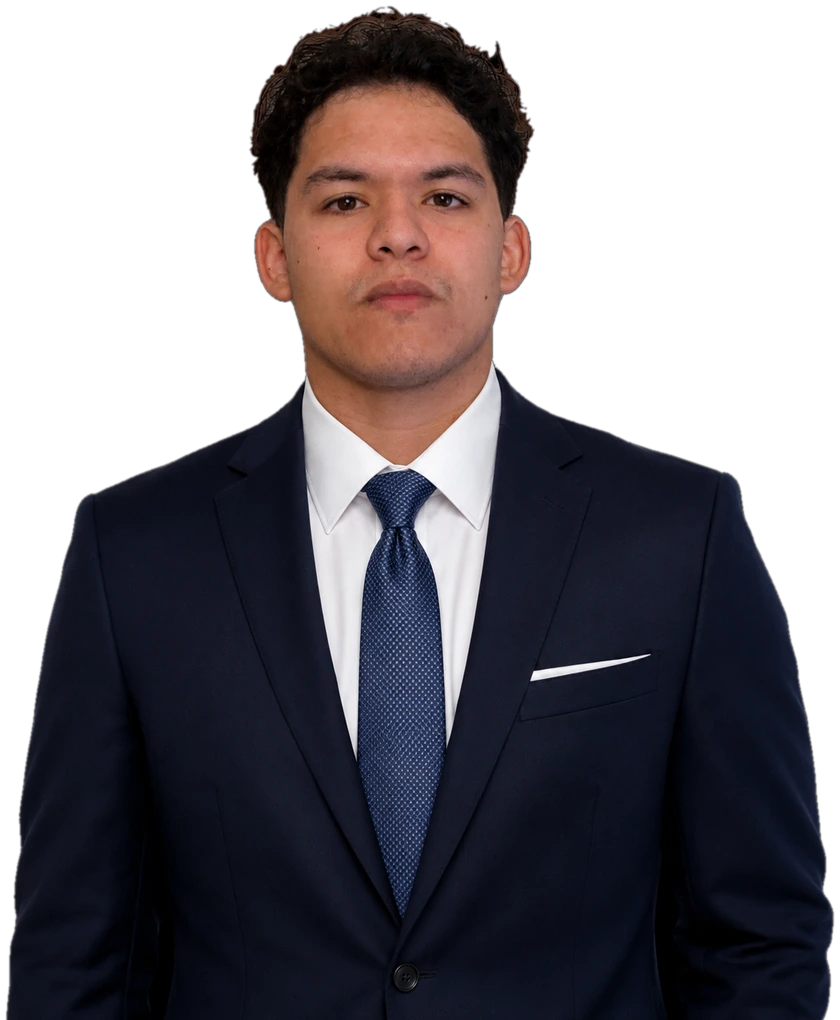
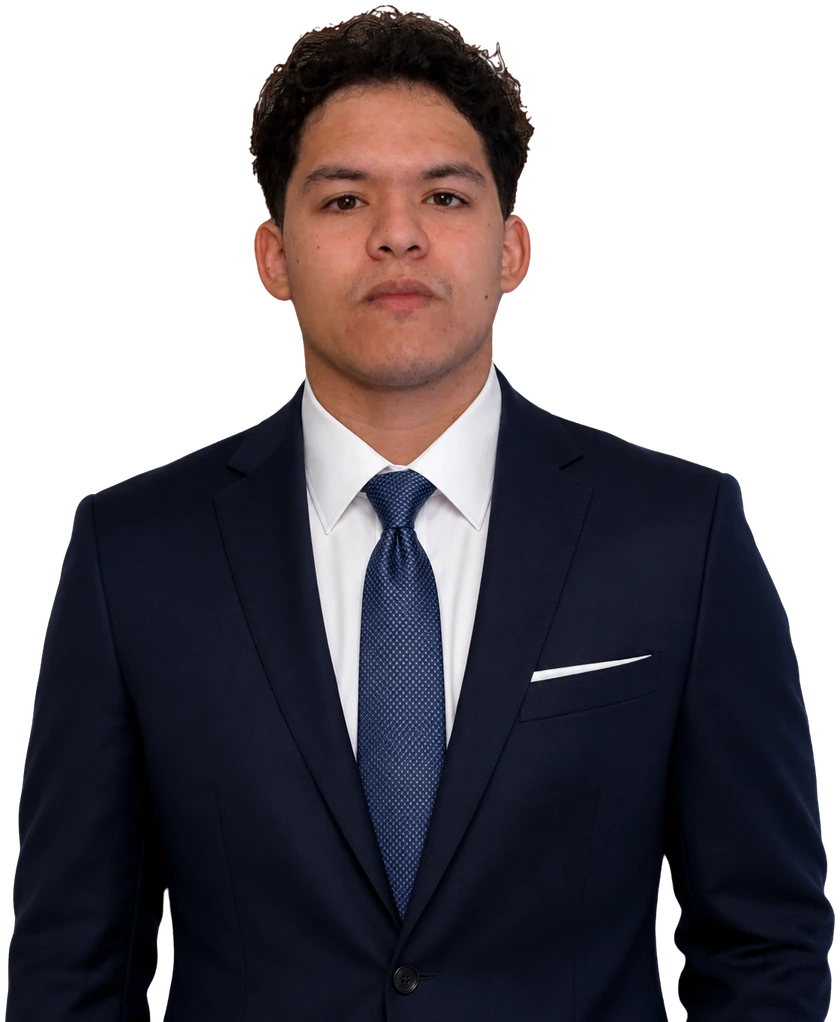
headshot: replace cutout with the professionally keyed NAVY SUIT PNG (full hair detail), attrs 280x341

diff --git a/about/index.html b/about/index.html
@@ -2756,7 +2756,7 @@
     <div class="drozq-portrait-split">
 
       <div class="ta_center md:ta_left">
-        <img src="/media/images/joshua-navy-suit.webp" alt="Joshua Guerrero, Real Estate Agent" width="280" height="340" loading="lazy" class="d_inline-block w_220px md:w_280px h_auto">
+        <img src="/media/images/joshua-navy-suit.webp" alt="Joshua Guerrero, Real Estate Agent" width="280" height="341" loading="lazy" class="d_inline-block w_220px md:w_280px h_auto">
       </div>
 
       <div>

diff --git a/meet-the-team/index.html b/meet-the-team/index.html
@@ -2795,7 +2795,7 @@
     <div class="drozq-portrait-split">
 
       <div class="ta_center md:ta_left">
-        <img src="/media/images/joshua-navy-suit.webp" alt="Joshua Guerrero, Real Estate Agent" width="280" height="340" loading="lazy" class="d_inline-block w_220px md:w_280px h_auto">
+        <img src="/media/images/joshua-navy-suit.webp" alt="Joshua Guerrero, Real Estate Agent" width="280" height="341" loading="lazy" class="d_inline-block w_220px md:w_280px h_auto">
       </div>
 
       <div>
